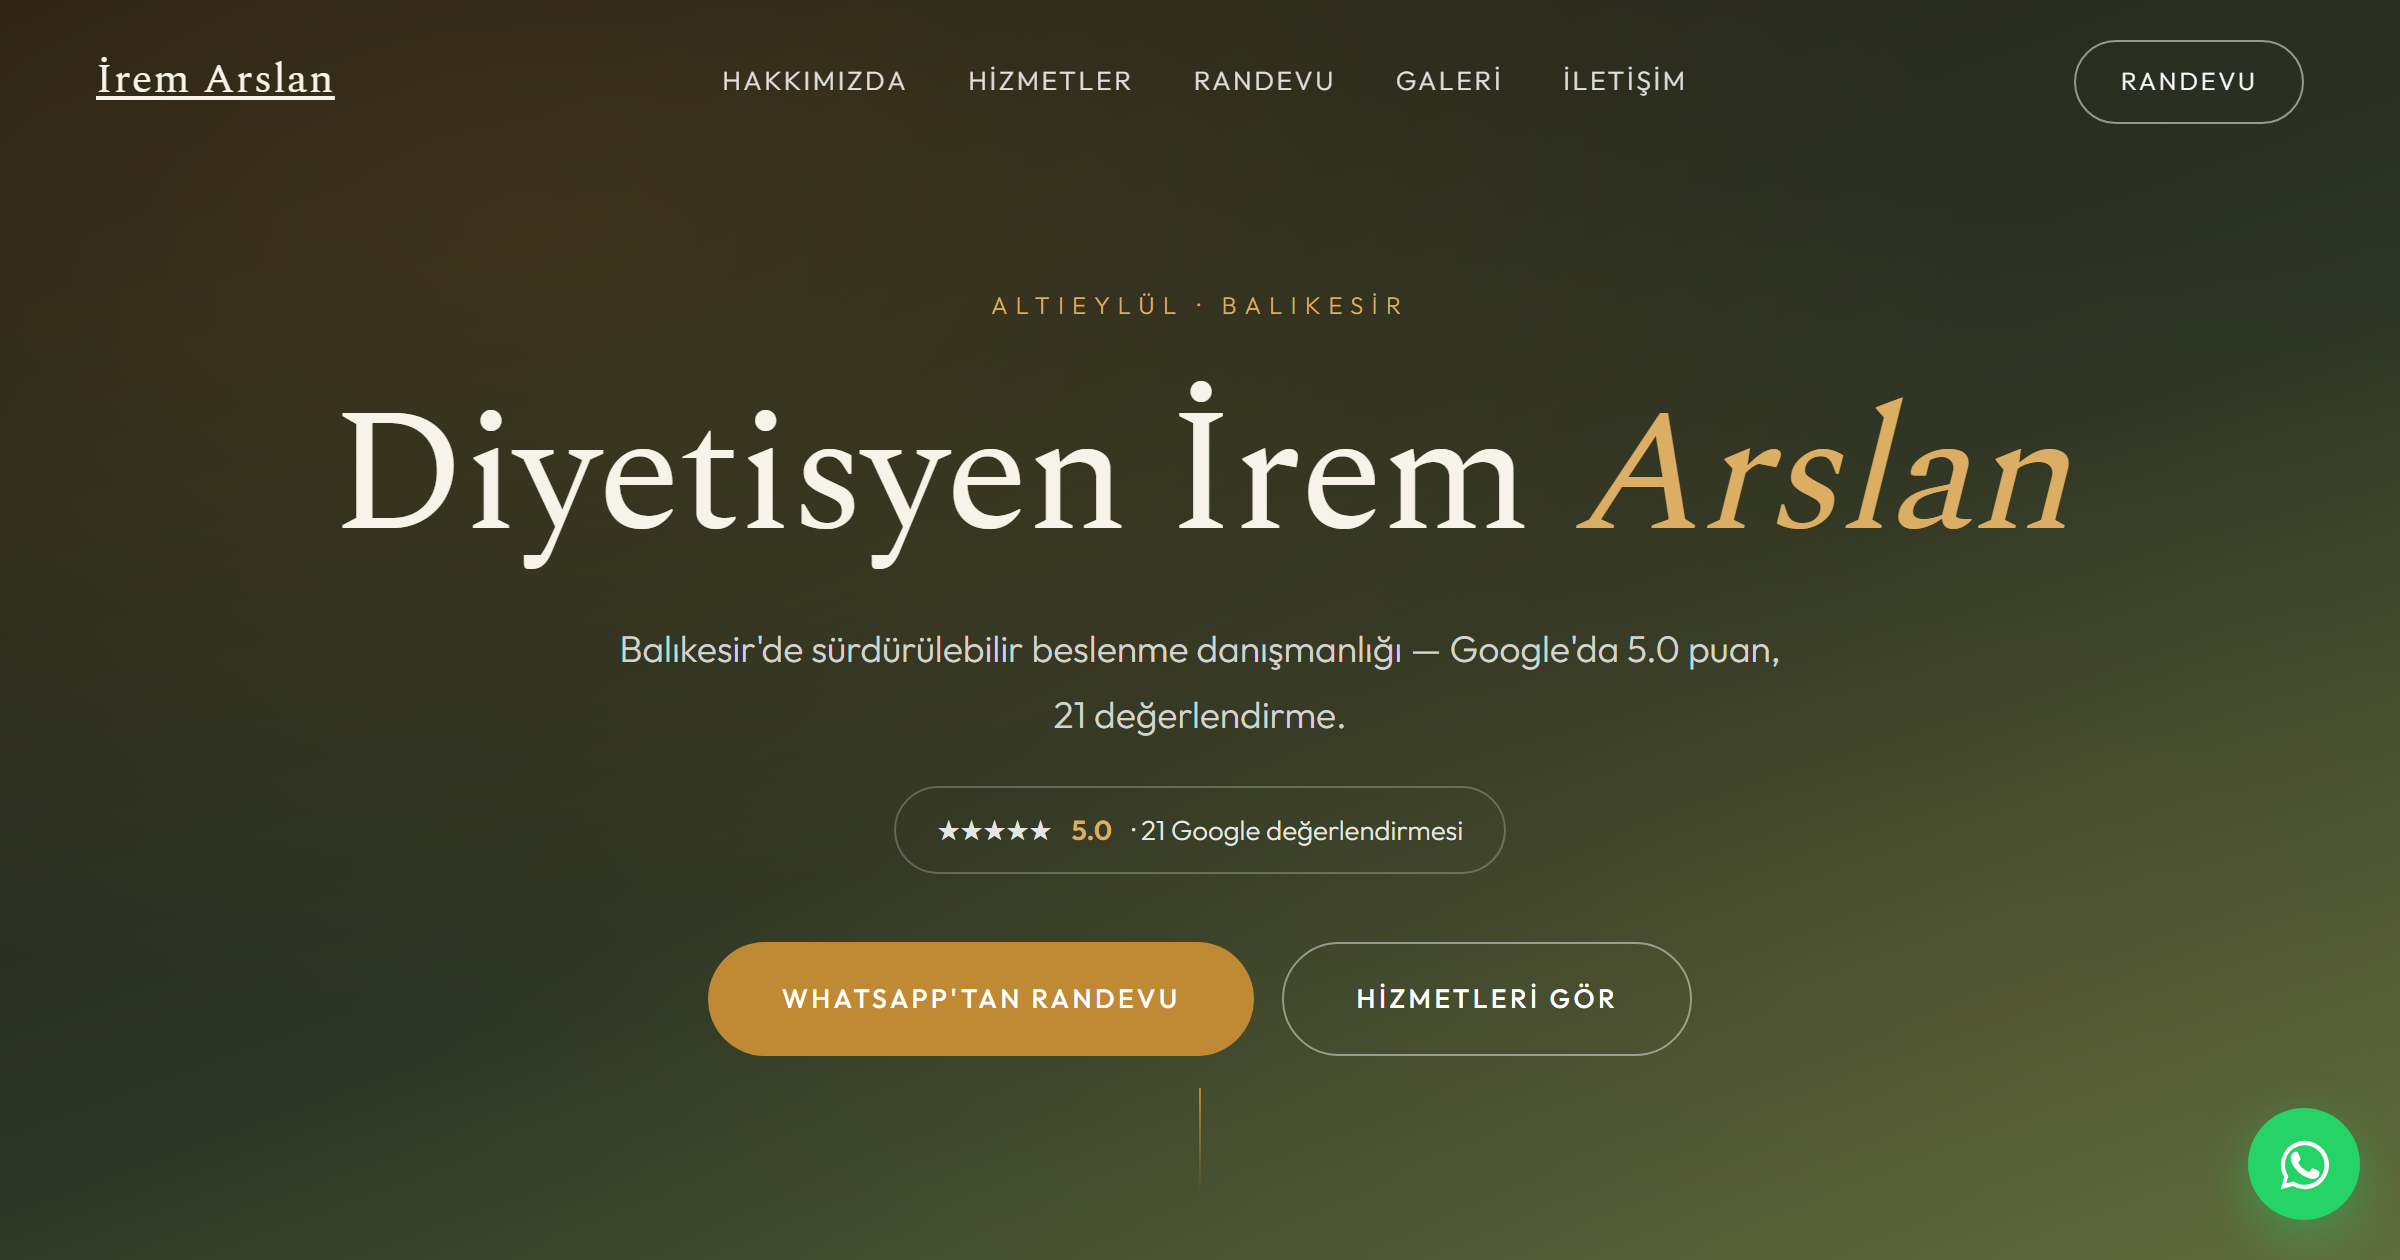
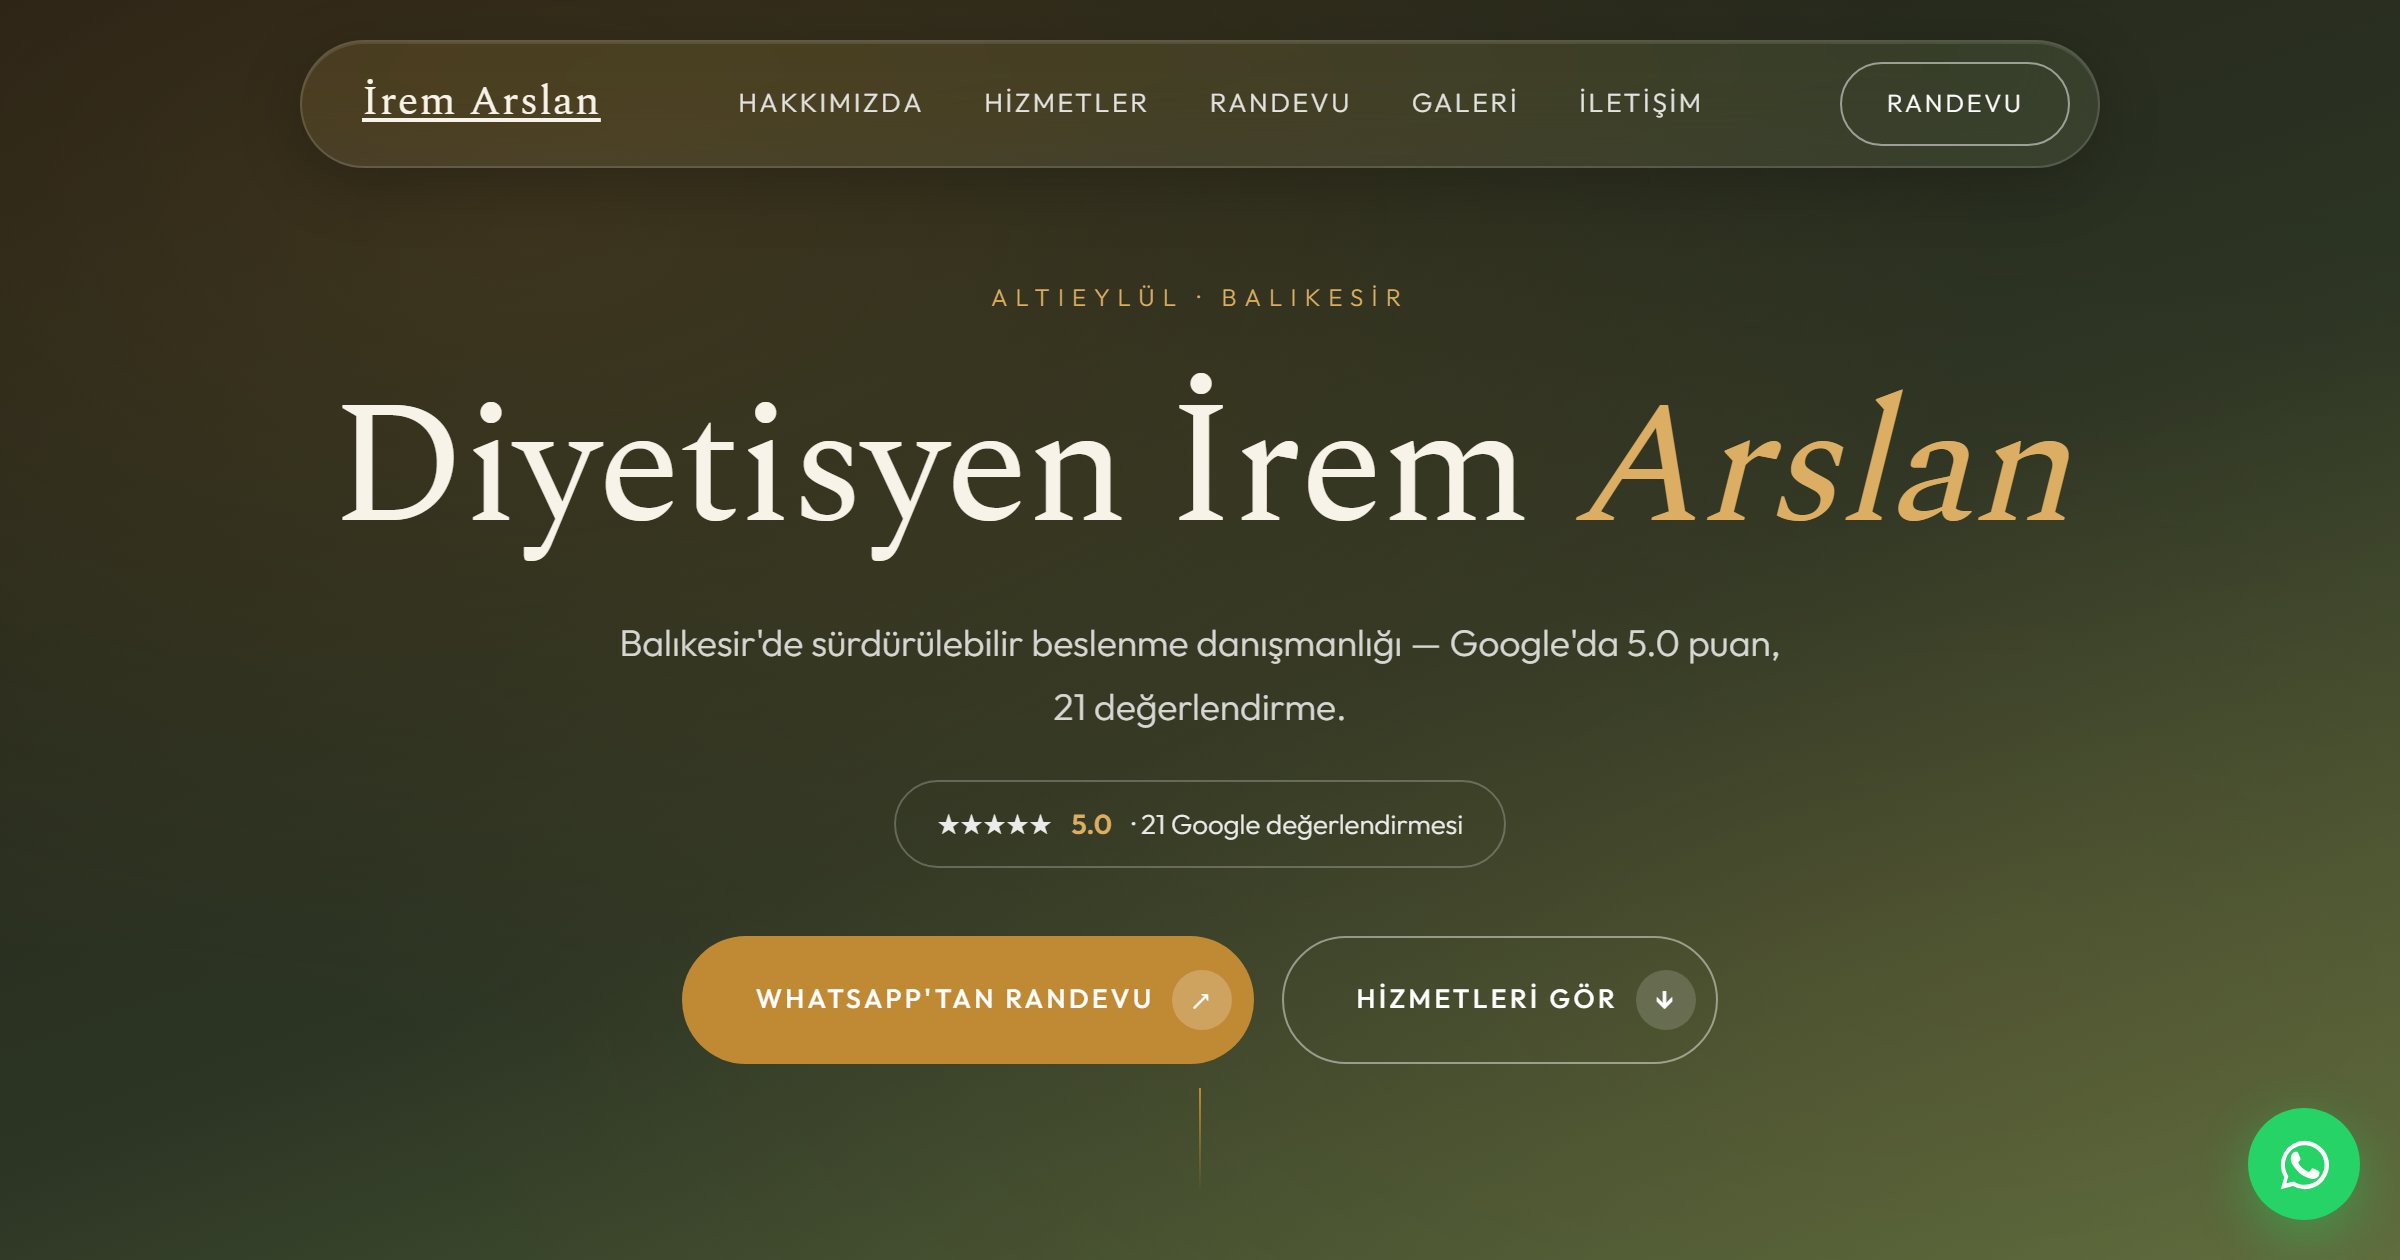
high-end-visual-design skill uygula: floating nav, double-bezel, button-in-button

diff --git a/index.html b/index.html
@@ -195,6 +195,54 @@ footer p{font-size:.94rem;margin-bottom:9px}
   .igrid,.rgrid,.fgrid{grid-template-columns:1fr}
   .iphoto{max-width:400px;margin:0 auto}
 }
+
+/* ── PREMIUM OVERRIDE (bu anlaşmaya özel, sablon.html'e dokunulmadı) ── */
+.rv{filter:blur(6px)}
+.rv.in{filter:blur(0)}
+.rv{transition:opacity .9s var(--ease),transform .9s var(--ease),filter .9s var(--ease)}
+
+/* yüzen ada nav */
+header{background:transparent!important;box-shadow:none!important}
+header.s{background:transparent!important;box-shadow:none!important;backdrop-filter:none!important}
+.hrow{background:rgba(255,255,255,.08);backdrop-filter:blur(20px) saturate(160%);-webkit-backdrop-filter:blur(20px) saturate(160%);
+  border:1px solid rgba(255,255,255,.14);border-radius:100px;padding:10px 12px 10px 30px;max-width:900px;
+  margin:0 auto;box-shadow:0 8px 32px rgba(0,0,0,.22),inset 0 1px 0 rgba(255,255,255,.1);
+  transition:background .5s cubic-bezier(.32,.72,0,1),box-shadow .5s cubic-bezier(.32,.72,0,1),border-color .5s cubic-bezier(.32,.72,0,1)}
+header.s .hrow{background:rgba(var(--cream-rgb,250,246,248),.85);border-color:rgba(0,0,0,.08);
+  box-shadow:0 14px 40px rgba(0,0,0,.14),inset 0 1px 0 rgba(255,255,255,.6)}
+body.menu-acik .hrow,body.menu-acik header.s .hrow{background:transparent!important;
+  backdrop-filter:none!important;-webkit-backdrop-filter:none!important;box-shadow:none!important;border-color:transparent!important}
+.hcta{margin-right:2px}
+
+/* eyebrow: pill rozet */
+.eyebrow{display:inline-block;padding:6px 18px;border-radius:100px;background:var(--cream-2);
+  border:1px solid var(--line)}
+.fiyat .eyebrow{background:rgba(255,255,255,.08);border-color:rgba(255,255,255,.16)}
+
+/* button-in-button trailing icon */
+.btn{padding-right:10px}
+.btn-ic{width:30px;height:30px;border-radius:50%;background:rgba(255,255,255,.22);
+  display:inline-flex;align-items:center;justify-content:center;font-size:.92rem;flex:none;
+  transition:.4s cubic-bezier(.32,.72,0,1)}
+.btn-o .btn-ic{background:rgba(255,255,255,.16)}
+.btn:hover .btn-ic{transform:translate(3px,-2px) scale(1.08)}
+.form .btn{padding-right:10px}
+
+/* double-bezel: dış kabuk + iç çekirdek */
+.dbz{padding:6px;border-radius:1.95rem;background:linear-gradient(155deg,rgba(255,255,255,.55),rgba(255,255,255,.05));
+  box-shadow:0 1px 1px rgba(255,255,255,.5) inset,0 22px 46px -24px rgba(0,0,0,.32);
+  transition:.5s cubic-bezier(.32,.72,0,1)}
+.dbz:hover{transform:translateY(-4px)}
+.dbz .card{border-radius:1.65rem!important;background:var(--cream)!important;border:none!important;
+  box-shadow:inset 0 1px 1px rgba(255,255,255,.8),inset 0 0 0 1px rgba(0,0,0,.045)!important;
+  height:100%}
+.dbz .card:hover{transform:none!important;box-shadow:inset 0 1px 1px rgba(255,255,255,.8),inset 0 0 0 1px rgba(0,0,0,.045)!important}
+.dbz-ph{padding:7px;border-radius:calc(3/4*1px + 1.6rem);background:linear-gradient(155deg,rgba(255,255,255,.5),rgba(255,255,255,.04));
+  box-shadow:0 1px 1px rgba(255,255,255,.45) inset,0 26px 50px -22px rgba(0,0,0,.34)}
+.dbz-ph .iphoto{border-radius:1.3rem!important}
+.dbz-g{padding:5px;border-radius:1.1rem;background:linear-gradient(155deg,rgba(255,255,255,.4),rgba(255,255,255,.03));
+  box-shadow:0 1px 1px rgba(255,255,255,.4) inset,0 16px 32px -18px rgba(0,0,0,.28)}
+.dbz-g .gitem{border-radius:.85rem!important}
 </style>
 </head>
 <body>
@@ -213,15 +261,15 @@ footer p{font-size:.94rem;margin-bottom:9px}
     <p class="hsub">Balıkesir'de sürdürülebilir beslenme danışmanlığı — Google'da 5.0 puan, 21 değerlendirme.</p>
     <div class="stars">★★★★★ <b>5.0</b> · 21 Google değerlendirmesi</div>
     <div class="hbtns">
-      <a class="btn btn-g" href="https://wa.me/905334517886" target="_blank">WhatsApp'tan randevu</a>
-      <a class="btn btn-o" href="#hizmetler">Hizmetleri gör</a>
+      <a class="btn btn-g" href="https://wa.me/905334517886" target="_blank">WhatsApp'tan randevu<span class="btn-ic">↗</span></a>
+      <a class="btn btn-o" href="#hizmetler">Hizmetleri gör<span class="btn-ic">↓</span></a>
     </div>
   </div>
   <div class="scroll"></div>
 </div>
 
 <section class="imza" id="hakkimizda"><div class="w igrid">
-  <div class="iphoto rv"><img src="foto/irem-portre.jpg" alt="Diyetisyen İrem Arslan" loading="lazy" ></div>
+  <div class="dbz-ph"><div class="iphoto rv"><img src="foto/irem-portre.jpg" alt="Diyetisyen İrem Arslan" loading="lazy" ></div></div>
   <div class="rv">
     <span class="eyebrow">Hakkımızda</span>
     <h2 class="stitle">5.0 puanın arkasındaki diyetisyen</h2>
@@ -236,7 +284,7 @@ footer p{font-size:.94rem;margin-bottom:9px}
     <h2 class="stitle">Danışmanlık hizmetleri</h2>
     <p class="slead">Her danışan için süreç ücretsiz bir ön görüşmeyle başlar.</p>
   </div>
-  <div class="svc"><div class="card rv"><h3>Ücretsiz Ön Görüşme</h3><p>İlk adım her zaman ücretsiz bir görüşme; ihtiyaç ve hedefler birlikte konuşulur.</p></div><div class="card rv"><h3>Kişiye Özel Beslenme Programı</h3><p>Yaş, yaşam tarzı ve hedeflere göre kişiye özel hazırlanan beslenme planı.</p></div><div class="card rv"><h3>Sürdürülebilir Beslenme Danışmanlığı</h3><p>Kısa süreli diyet değil, günlük hayata gerçekten oturan, uzun vadeli bir düzen kurma yaklaşımı.</p></div><div class="card rv"><h3>Online / Yüz Yüze Takip</h3><p>Süreç boyunca düzenli takiple programın ihtiyaca göre güncellenmesi.</p></div></div>
+  <div class="svc"><div class="dbz"><div class="card rv"><h3>Ücretsiz Ön Görüşme</h3><p>İlk adım her zaman ücretsiz bir görüşme; ihtiyaç ve hedefler birlikte konuşulur.</p></div></div><div class="dbz"><div class="card rv"><h3>Kişiye Özel Beslenme Programı</h3><p>Yaş, yaşam tarzı ve hedeflere göre kişiye özel hazırlanan beslenme planı.</p></div></div><div class="dbz"><div class="card rv"><h3>Sürdürülebilir Beslenme Danışmanlığı</h3><p>Kısa süreli diyet değil, günlük hayata gerçekten oturan, uzun vadeli bir düzen kurma yaklaşımı.</p></div></div><div class="dbz"><div class="card rv"><h3>Online / Yüz Yüze Takip</h3><p>Süreç boyunca düzenli takiple programın ihtiyaca göre güncellenmesi.</p></div></div></div>
 </div></section>
 
 
@@ -258,7 +306,7 @@ footer p{font-size:.94rem;margin-bottom:9px}
     <div class="fld"><label>Hizmet</label><select id="f_hiz"><option>Ücretsiz Ön Görüşme</option><option>Kişiye Özel Beslenme Programı</option><option>Sürdürülebilir Beslenme Danışmanlığı</option><option>Online / Yüz Yüze Takip</option><option>Diğer / emin değilim</option></select></div>
     <div class="fld"><label>Tercih ettiğiniz gün / saat</label><input id="f_zaman" placeholder="Örn. Cuma öğleden sonra"></div>
     <div class="fld"><label>Eklemek istedikleriniz</label><textarea id="f_not" placeholder="İsteğe bağlı"></textarea></div>
-    <a class="btn btn-g" id="f_gonder" href="#" target="_blank">WhatsApp'ta gönder</a>
+    <a class="btn btn-g" id="f_gonder" href="#" target="_blank">WhatsApp'ta gönder<span class="btn-ic">↗</span></a>
     <p class="rnote">Form bilgileri kaydedilmez, doğrudan WhatsApp mesajına dönüşür.</p>
   </div>
 </div></section>
@@ -269,7 +317,7 @@ footer p{font-size:.94rem;margin-bottom:9px}
     <h2 class="stitle">Çalışmalarımız</h2>
     <p class="slead">İçeriklerimizden ve danışan tariflerinden kareler.</p>
   </div>
-  <div class="gal" style="grid-template-columns:minmax(0,320px);justify-content:center;max-width:320px;margin-left:auto;margin-right:auto"><div class="gitem rv"><img src="foto/kuru-domates-salatasi.jpg" alt="Kuru domates salatası tarifi" loading="lazy" ></div></div>
+  <div class="gal" style="grid-template-columns:minmax(0,320px);justify-content:center;max-width:320px;margin-left:auto;margin-right:auto"><div class="dbz-g"><div class="gitem rv"><img src="foto/kuru-domates-salatasi.jpg" alt="Kuru domates salatası tarifi" loading="lazy" ></div></div></div>
 </div></section>
 
 
